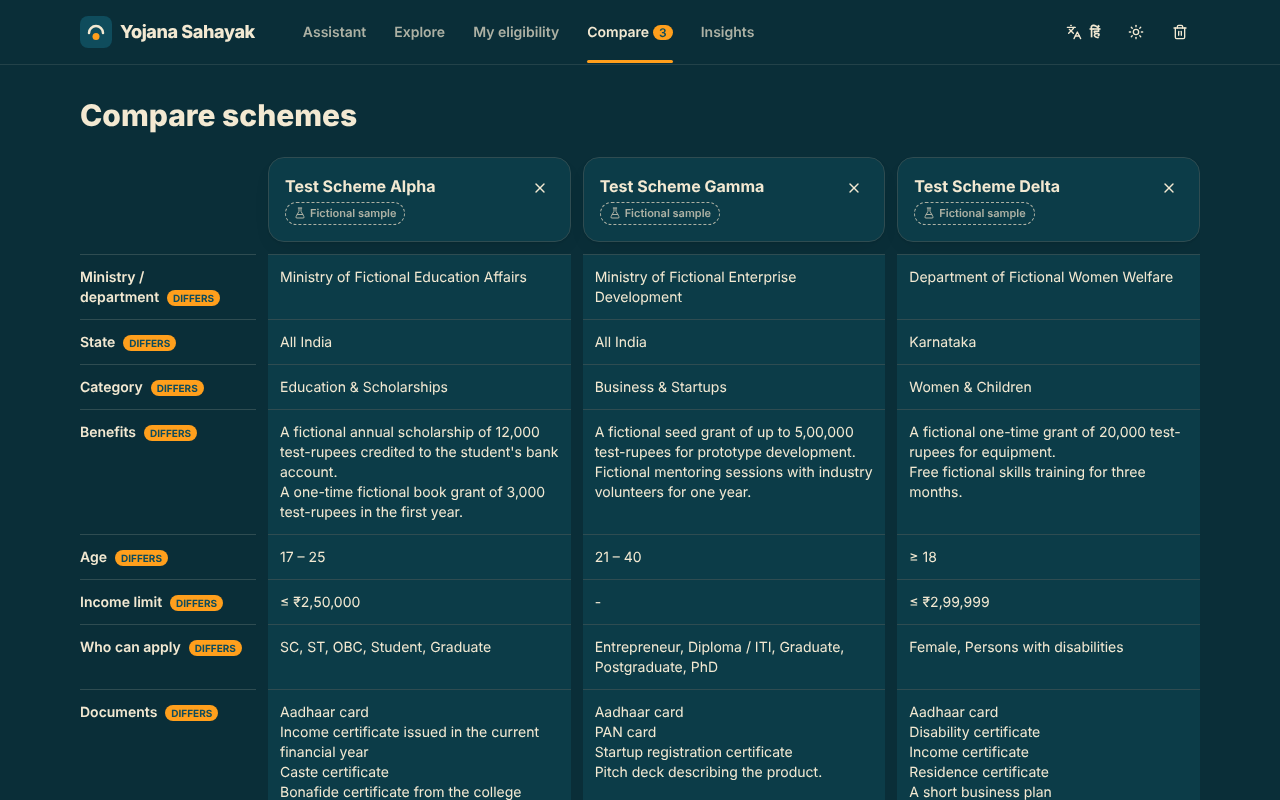
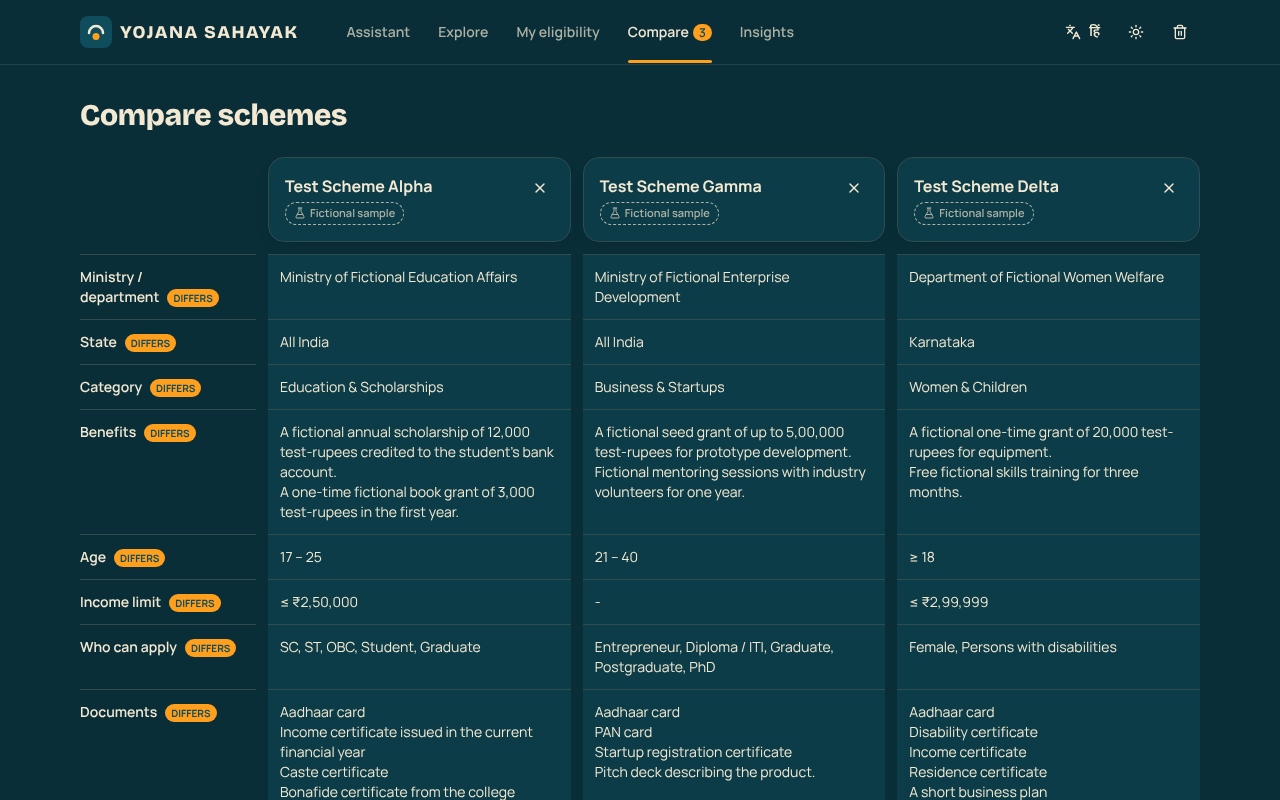
feat: switch to bundled Bricolage Grotesque, Manrope and Mukta fonts
Headings use Bricolage Grotesque, body text Manrope and Devanagari Mukta,
all served from the app bundle through Fontsource so pages work offline
and make no request to Google Fonts. The YOJANA SAHAYAK wordmark is set
in capitals in the header, footer and page title.

diff --git a/frontend/src/index.css b/frontend/src/index.css
@@ -66,8 +66,9 @@
   --color-teal: var(--teal);
   --color-sand: var(--sand);
   --color-marigold: var(--marigold);
-  --font-sans: 'Plus Jakarta Sans', 'Noto Sans Devanagari', ui-sans-serif, system-ui, sans-serif;
-  --font-deva: 'Noto Sans Devanagari', 'Plus Jakarta Sans', ui-sans-serif, system-ui, sans-serif;
+  --font-sans: 'Manrope Variable', 'Mukta', ui-sans-serif, system-ui, sans-serif;
+  --font-display: 'Bricolage Grotesque Variable', 'Mukta', ui-sans-serif, system-ui, sans-serif;
+  --font-deva: 'Mukta', 'Manrope Variable', ui-sans-serif, system-ui, sans-serif;
 }
 
 @layer base {
@@ -84,9 +85,22 @@
       color 400ms ease;
   }
 
+  h1,
+  h2,
+  h3 {
+    font-family: var(--font-display);
+    letter-spacing: -0.01em;
+  }
+
   :lang(hi) {
     font-family: var(--font-deva);
     line-height: 1.7;
+  }
+
+  :lang(hi) :is(h1, h2, h3),
+  :is(h1, h2, h3):lang(hi) {
+    font-family: var(--font-deva);
+    letter-spacing: 0;
   }
 
   :focus-visible {
@@ -137,6 +151,14 @@
 
 @utility label {
   @apply mb-1.5 block text-sm font-semibold text-fg;
+}
+
+/* The wordmark is set in capitals; Devanagari has no case, so Hindi is unaffected. */
+@utility wordmark {
+  font-family: var(--font-display);
+  text-transform: uppercase;
+  letter-spacing: 0.08em;
+  font-weight: 800;
 }
 
 @utility muted {

diff --git a/frontend/src/components/Layout.tsx b/frontend/src/components/Layout.tsx
@@ -86,12 +86,9 @@ export function Layout({ children }: { children: ReactNode }) {
       </a>
       <header className="no-print sticky top-0 z-40 border-b border-line/70 bg-bg/80 backdrop-blur-md">
         <div className="mx-auto flex h-16 max-w-6xl items-center gap-3 px-4">
-          <NavLink
-            to="/"
-            className="flex items-center gap-2 rounded-lg font-extrabold tracking-tight"
-          >
+          <NavLink to="/" className="flex items-center gap-2 rounded-lg">
             <Logo className="size-8" />
-            <span className="text-lg">{t('app.name')}</span>
+            <span className="wordmark text-base sm:text-lg">{t('app.name')}</span>
           </NavLink>
           <nav className="ms-6 hidden items-center gap-1 md:flex" aria-label="Main">
             {LINKS.map((link) => (
@@ -161,7 +158,7 @@ export function Layout({ children }: { children: ReactNode }) {
         {children}
       </main>
       <footer className="no-print border-t border-line/70 py-6 text-center text-sm text-fg-muted">
-        {t('app.name')} · {t('app.tagline')}
+        <span className="wordmark text-xs">{t('app.name')}</span> · {t('app.tagline')}
       </footer>
     </div>
   )

diff --git a/frontend/index.html b/frontend/index.html
@@ -9,13 +9,7 @@
       content="Find Indian government welfare schemes, check eligibility and see the documents you need, with every answer cited."
     />
     <meta name="theme-color" content="#0F4C5C" />
-    <link rel="preconnect" href="https://fonts.googleapis.com" />
-    <link rel="preconnect" href="https://fonts.gstatic.com" crossorigin />
-    <link
-      href="https://fonts.googleapis.com/css2?family=Noto+Sans+Devanagari:wght@400;500;600;700&family=Plus+Jakarta+Sans:wght@400;500;600;700;800&display=swap"
-      rel="stylesheet"
-    />
-    <title>Yojana Sahayak</title>
+    <title>YOJANA SAHAYAK</title>
     <script>
       try {
         var saved = localStorage.getItem('ys.theme')

diff --git a/frontend/src/main.tsx b/frontend/src/main.tsx
@@ -3,6 +3,12 @@ import { MotionConfig } from 'framer-motion'
 import { StrictMode } from 'react'
 import { createRoot } from 'react-dom/client'
 import { BrowserRouter } from 'react-router-dom'
+import '@fontsource-variable/bricolage-grotesque/opsz.css'
+import '@fontsource-variable/manrope/wght.css'
+import '@fontsource/mukta/devanagari-400.css'
+import '@fontsource/mukta/devanagari-500.css'
+import '@fontsource/mukta/devanagari-600.css'
+import '@fontsource/mukta/devanagari-700.css'
 import App from './App'
 import './index.css'
 import { ChatProvider } from './state/chat'

diff --git a/README.md b/README.md
@@ -91,7 +91,7 @@ progress tracker is driven by those events.
 | Ingestion | httpx, BeautifulSoup, PyMuPDF, optional Playwright for JavaScript-rendered pages |
 | LLMs | `openai` SDK against OpenAI-compatible endpoints, tiktoken, SQLite for usage and cache |
 | MCP | official `mcp` Python SDK (`MCPServer`, the 2.x name of FastMCP) |
-| Frontend | Vite, React 19, TypeScript, Tailwind CSS 4, Framer Motion, TanStack Query, Recharts, lucide-react |
+| Frontend | Vite, React 19, TypeScript, Tailwind CSS 4, Framer Motion, TanStack Query, Recharts, lucide-react; Bricolage Grotesque, Manrope and Mukta fonts bundled with Fontsource |
 | Quality | pytest, respx, ruff, ESLint, Prettier, GitHub Actions |
 
 ## Running on Windows, step by step
